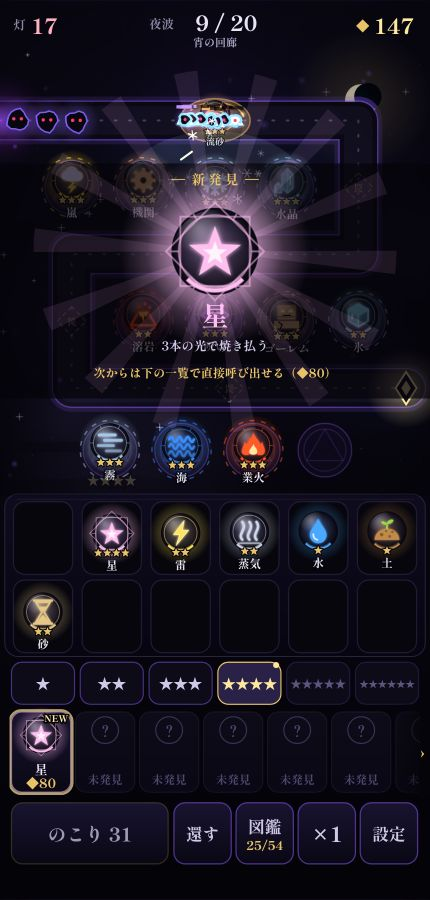
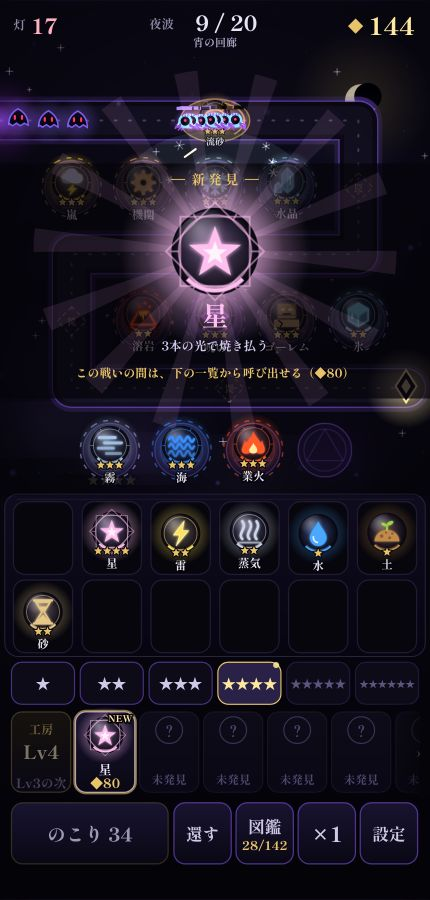
アルケマージの紹介ページを工房レベルに合わせ、画面写真を撮りなおす
Claude-Session: https://claude.ai/code/session_01677anw4fRTfkMvYxysWqmY

diff --git a/_src/35-alchemerge-defense.html b/_src/35-alchemerge-defense.html
@@ -20,7 +20,7 @@ crumb: アルケマージ
   <p class="game-embed-links"><span>🔊 効果音と音楽が出ます。音量にご注意ください（ゲーム内の「設定」で、音楽だけ・すべてを消せます）</span><a href="/alchemerge_defense/">ゲームだけを大きい画面で遊ぶ ›</a></p>
   <noscript><p class="note">ゲームの表示には JavaScript が必要です。<a href="/alchemerge_defense/">こちらから遊べます</a>。</p></noscript>
 
-  <p class="lead">元素を重ねて新しい元素を見つけ、できた元素を塔にして砦を守るゲームです。火と水を重ねると蒸気、水と水なら池、池と池なら海。組み合わせは最初は分からないので、自分で試して見つけていきます。一度見つけた元素は、次からは直接呼び出せます。</p>
+  <p class="lead">元素を重ねて新しい元素を見つけ、できた元素を塔にして砦を守るゲームです。火と水を重ねると蒸気、水と水なら池、池と池なら海。組み合わせは最初は分からないので、自分で試して見つけていきます。作った元素はその戦いの間、一覧から直接呼び出せます。</p>
   <p class="note"><strong>ベータ版です。</strong>最後まで遊べます。調整を続けているので、内容や難しさが変わることがあります。</p>
 
   <dl class="facts">
@@ -49,6 +49,7 @@ crumb: アルケマージ
       <tr><td>元素を運ぶ・重ねる</td><td>元素を押したまま、行き先まで動かして離す。または、元素をタップして選び、行き先をタップ</td></tr>
       <tr><td>元素を呼び出す</td><td>画面下の一覧のボタンをタップ。★のタブでランクを切りかえ、一覧は横に流せます</td></tr>
       <tr><td>元素の効果と射程を見る</td><td>元素をタップ（画面の上に名前と効果、置いてある塔は射程の円が出ます）</td></tr>
+      <tr><td>工房レベルを上げる</td><td>一覧の ★★ 以上のタブの先頭にある「工房」の札をタップ（魔力を払う）</td></tr>
       <tr><td>いらない元素を魔力に戻す</td><td>「還す」まで運ぶ（半額が戻ります）</td></tr>
       <tr><td>早送り</td><td>「×1」をタップ（×2 になります）</td></tr>
       <tr><td>音・音楽・言語・ステージ選択へ戻る</td><td>「設定」をタップ（開いている間は戦闘が止まります）</td></tr>
@@ -94,7 +95,16 @@ crumb: アルケマージ
     <li><strong>王の間</strong>：左上と右下の二か所から、真ん中の灯へ迫ってきます。最後のステージです。</li>
     <li><strong>悪夢</strong>：敵の体力が 1.5 倍、灯が 12 の難しい設定です。そのステージを通常でクリアすると選べるようになります。</li>
   </ul>
-  <p>見つけた元素は、どのステージにも持ち越されます。2 つめのステージからは、見つけた元素を一覧から直接呼び出して、早く強くなれます。</p>
+  <p>見つけた元素（図鑑）は、どのステージにも持ち越されます。</p>
+
+  <h2>一覧から呼び出せる元素と、工房レベル</h2>
+  <p>画面下の一覧から魔力で呼び出せるのは、次の元素です。</p>
+  <ul>
+    <li><strong>★ の基本元素</strong>：火・水・土・風（解放すれば木・光・闇も）。いつでも呼び出せます。</li>
+    <li><strong>その戦いで作った元素</strong>：一度重ねて作れば、その戦いの間は一覧から直接呼び出せます。</li>
+    <li><strong>工房レベル以下の ★ の元素</strong>：魔力を払って工房レベルを上げると、図鑑にあるその ★ の元素を、作っていなくても呼び出せます（レベル 2 なら ★★ まで）。上げる魔力はレベル 2 から順に ◆40・◆100・◆240・◆560・◆1200 です。</li>
+  </ul>
+  <p>呼び出す値段は、重ねて作るのと同じです。工房レベルは、重ねる手間と作業台の空きを省くためのものです。塔を増やすか、工房に投資するかを考えるのも作戦のうちです。</p>
 
   <h2>進め方のコツ</h2>
   <ul>
@@ -108,7 +118,7 @@ crumb: アルケマージ
   <h2>画面</h2>
   <div class="gallery">
     <figure><img src="/assets/img/alchemerge-defense-play.jpg" alt="戦闘画面。道のそばの魔法陣に元素の塔が並び、敵の列を吹雪や稲妻で攻撃している。下に作業台と呼び出し一覧" width="430" height="900" loading="lazy"><figcaption>戦闘：上が盤面、下が作業台と呼び出し一覧</figcaption></figure>
-    <figure><img src="/assets/img/alchemerge-defense-new.jpg" alt="新しい元素「星」を見つけた画面。放射状の光と、次からは下の一覧で直接呼び出せる、の案内" width="430" height="900" loading="lazy"><figcaption>新発見：次からは一覧で直接呼び出せる</figcaption></figure>
+    <figure><img src="/assets/img/alchemerge-defense-new.jpg" alt="新しい元素を見つけた画面。放射状の光と、この戦いの間は下の一覧から呼び出せる、の案内" width="430" height="900" loading="lazy"><figcaption>新発見：その戦いの間は一覧から呼び出せる</figcaption></figure>
     <figure><img src="/assets/img/alchemerge-defense-codex.jpg" alt="錬金図鑑の画面。見つけた元素の絵・名前・材料・効果が並ぶ" width="430" height="900" loading="lazy"><figcaption>図鑑：材料と効果を確かめられる</figcaption></figure>
   </div>
 

diff --git a/works/alchemerge-defense/index.html b/works/alchemerge-defense/index.html
@@ -49,7 +49,7 @@
   <p class="game-embed-links"><span>🔊 効果音と音楽が出ます。音量にご注意ください（ゲーム内の「設定」で、音楽だけ・すべてを消せます）</span><a href="/alchemerge_defense/">ゲームだけを大きい画面で遊ぶ ›</a></p>
   <noscript><p class="note">ゲームの表示には JavaScript が必要です。<a href="/alchemerge_defense/">こちらから遊べます</a>。</p></noscript>
 
-  <p class="lead">元素を重ねて新しい元素を見つけ、できた元素を塔にして砦を守るゲームです。火と水を重ねると蒸気、水と水なら池、池と池なら海。組み合わせは最初は分からないので、自分で試して見つけていきます。一度見つけた元素は、次からは直接呼び出せます。</p>
+  <p class="lead">元素を重ねて新しい元素を見つけ、できた元素を塔にして砦を守るゲームです。火と水を重ねると蒸気、水と水なら池、池と池なら海。組み合わせは最初は分からないので、自分で試して見つけていきます。作った元素はその戦いの間、一覧から直接呼び出せます。</p>
   <p class="note"><strong>ベータ版です。</strong>最後まで遊べます。調整を続けているので、内容や難しさが変わることがあります。</p>
 
   <dl class="facts">
@@ -80,6 +80,7 @@
       <tr><td>元素を運ぶ・重ねる</td><td>元素を押したまま、行き先まで動かして離す。または、元素をタップして選び、行き先をタップ</td></tr>
       <tr><td>元素を呼び出す</td><td>画面下の一覧のボタンをタップ。★のタブでランクを切りかえ、一覧は横に流せます</td></tr>
       <tr><td>元素の効果と射程を見る</td><td>元素をタップ（画面の上に名前と効果、置いてある塔は射程の円が出ます）</td></tr>
+      <tr><td>工房レベルを上げる</td><td>一覧の ★★ 以上のタブの先頭にある「工房」の札をタップ（魔力を払う）</td></tr>
       <tr><td>いらない元素を魔力に戻す</td><td>「還す」まで運ぶ（半額が戻ります）</td></tr>
       <tr><td>早送り</td><td>「×1」をタップ（×2 になります）</td></tr>
       <tr><td>音・音楽・言語・ステージ選択へ戻る</td><td>「設定」をタップ（開いている間は戦闘が止まります）</td></tr>
@@ -125,7 +126,16 @@
     <li><strong>王の間</strong>：左上と右下の二か所から、真ん中の灯へ迫ってきます。最後のステージです。</li>
     <li><strong>悪夢</strong>：敵の体力が 1.5 倍、灯が 12 の難しい設定です。そのステージを通常でクリアすると選べるようになります。</li>
   </ul>
-  <p>見つけた元素は、どのステージにも持ち越されます。2 つめのステージからは、見つけた元素を一覧から直接呼び出して、早く強くなれます。</p>
+  <p>見つけた元素（図鑑）は、どのステージにも持ち越されます。</p>
+
+  <h2>一覧から呼び出せる元素と、工房レベル</h2>
+  <p>画面下の一覧から魔力で呼び出せるのは、次の元素です。</p>
+  <ul>
+    <li><strong>★ の基本元素</strong>：火・水・土・風（解放すれば木・光・闇も）。いつでも呼び出せます。</li>
+    <li><strong>その戦いで作った元素</strong>：一度重ねて作れば、その戦いの間は一覧から直接呼び出せます。</li>
+    <li><strong>工房レベル以下の ★ の元素</strong>：魔力を払って工房レベルを上げると、図鑑にあるその ★ の元素を、作っていなくても呼び出せます（レベル 2 なら ★★ まで）。上げる魔力はレベル 2 から順に ◆40・◆100・◆240・◆560・◆1200 です。</li>
+  </ul>
+  <p>呼び出す値段は、重ねて作るのと同じです。工房レベルは、重ねる手間と作業台の空きを省くためのものです。塔を増やすか、工房に投資するかを考えるのも作戦のうちです。</p>
 
   <h2>進め方のコツ</h2>
   <ul>
@@ -139,7 +149,7 @@
   <h2>画面</h2>
   <div class="gallery">
     <figure><img src="/assets/img/alchemerge-defense-play.jpg" alt="戦闘画面。道のそばの魔法陣に元素の塔が並び、敵の列を吹雪や稲妻で攻撃している。下に作業台と呼び出し一覧" width="430" height="900" loading="lazy"><figcaption>戦闘：上が盤面、下が作業台と呼び出し一覧</figcaption></figure>
-    <figure><img src="/assets/img/alchemerge-defense-new.jpg" alt="新しい元素「星」を見つけた画面。放射状の光と、次からは下の一覧で直接呼び出せる、の案内" width="430" height="900" loading="lazy"><figcaption>新発見：次からは一覧で直接呼び出せる</figcaption></figure>
+    <figure><img src="/assets/img/alchemerge-defense-new.jpg" alt="新しい元素を見つけた画面。放射状の光と、この戦いの間は下の一覧から呼び出せる、の案内" width="430" height="900" loading="lazy"><figcaption>新発見：その戦いの間は一覧から呼び出せる</figcaption></figure>
     <figure><img src="/assets/img/alchemerge-defense-codex.jpg" alt="錬金図鑑の画面。見つけた元素の絵・名前・材料・効果が並ぶ" width="430" height="900" loading="lazy"><figcaption>図鑑：材料と効果を確かめられる</figcaption></figure>
   </div>
 

diff --git a/docs/worklog.md b/docs/worklog.md
@@ -357,3 +357,8 @@
 ## 2026-11-15（続き 3）ステージを 6 つに
 
 - ゲームにステージが 3 つ増えた（三叉の谷・迷いの森・王の間）ので、紹介ページの「ステージと難易度」に説明を足した
+
+## 2026-11-15（続き 4）一覧の決まりと工房レベル
+
+- ゲームで一覧から買える元素が「★1・その戦いで作った元素・工房レベル以下の図鑑の元素」になり、工房レベルが入ったので、紹介ページの冒頭・操作方法・新しい節「一覧から呼び出せる元素と、工房レベル」・画面写真の説明を直した
+- 紹介ページの画面写真 3 枚と一覧用のカード画像を、今のゲームで撮りなおした（新しい元素の絵・工房の札・新しい案内文が写る）
